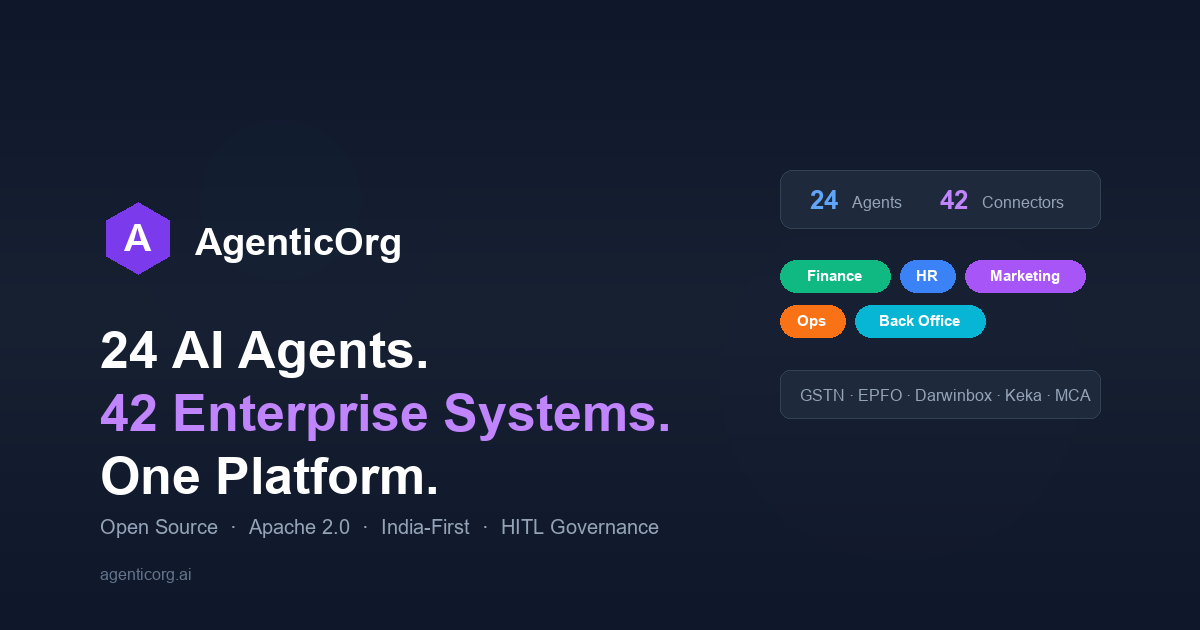
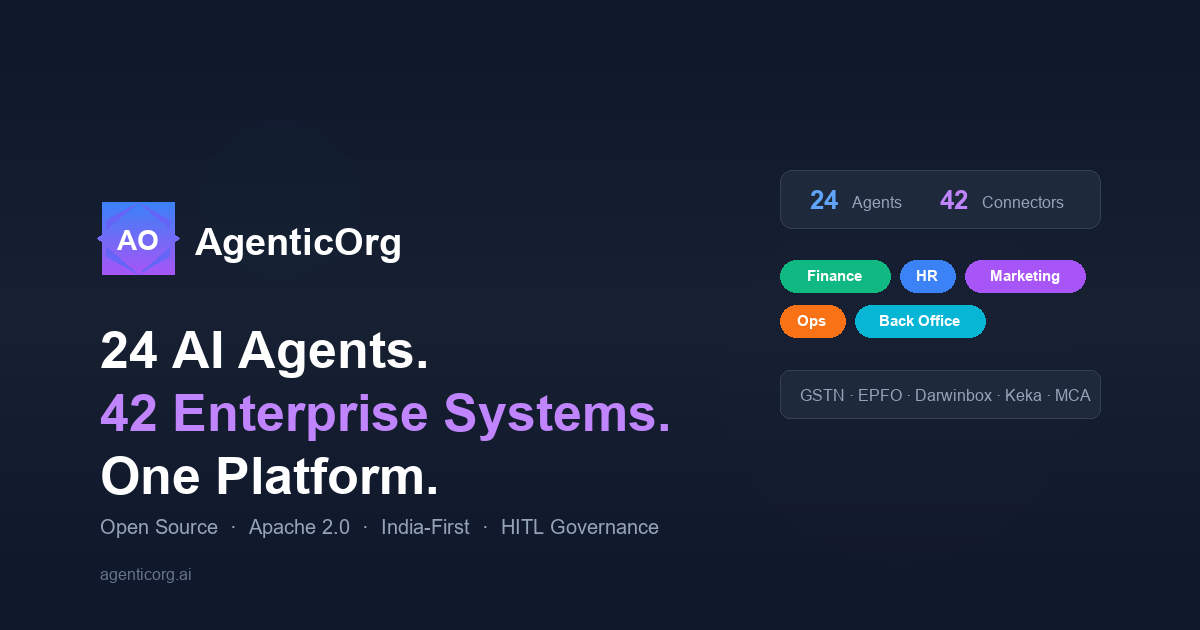
feat: complete brand asset suite — matching gradient AO across all formats
All assets now use the same blue→purple gradient hexagon with white "AO":

- favicon.svg: SVG for modern browsers (already committed)
- favicon-32x32.png: standard browser tab icon
- favicon-192x192.png: Android Chrome, PWA icon
- favicon-512x512.png: PWA splash screen, high-res
- apple-touch-icon.png: iOS home screen bookmark (192x192)
- og-image.png: social sharing card (1200x630) with matching AO logo

Updated index.html with all favicon sizes and apple-touch-icon.
Updated manifest.json with all 4 icon sizes for PWA.

Changed region(s): [[0.0617, 0.3016, 0.1542, 0.4524]]

diff --git a/ui/index.html b/ui/index.html
@@ -31,7 +31,9 @@
 
   <!-- Favicons -->
   <link rel="icon" type="image/svg+xml" href="/favicon.svg" />
-  <link rel="apple-touch-icon" href="/favicon.svg" />
+  <link rel="icon" type="image/png" sizes="32x32" href="/favicon-32x32.png" />
+  <link rel="icon" type="image/png" sizes="192x192" href="/favicon-192x192.png" />
+  <link rel="apple-touch-icon" sizes="192x192" href="/apple-touch-icon.png" />
 
   <!-- Web Manifest -->
   <link rel="manifest" href="/manifest.json" />
